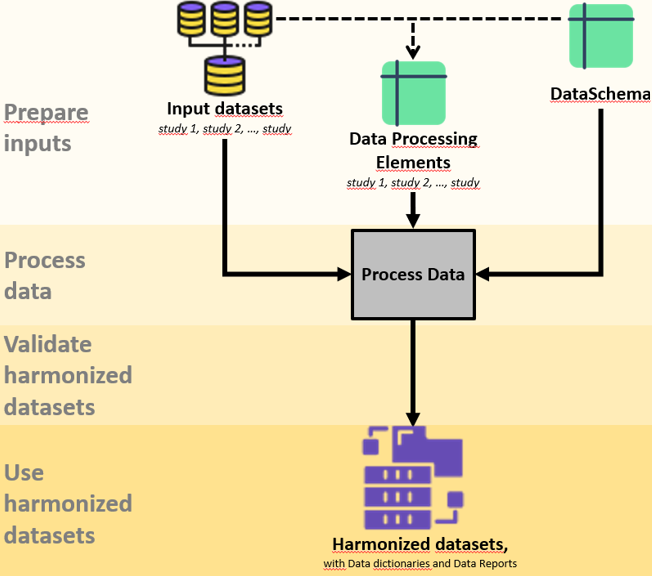
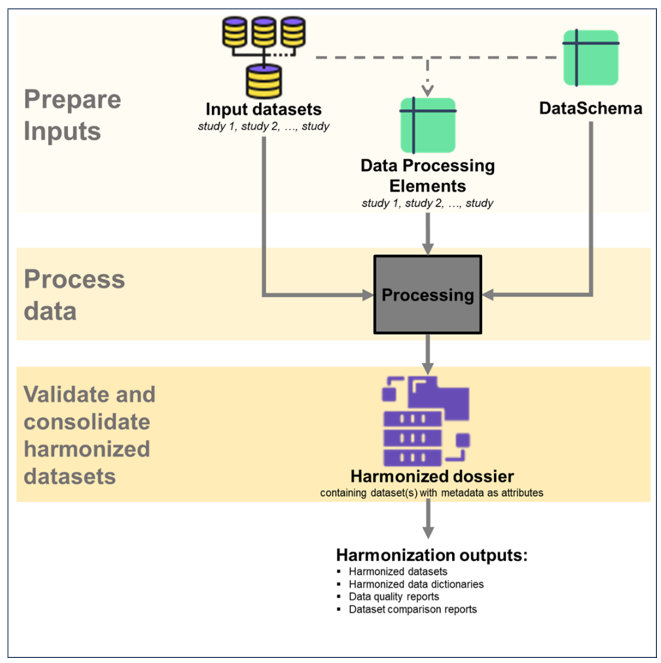
update read me page

diff --git a/README.md b/README.md
@@ -10,12 +10,12 @@
 
 # Overview
 
-Harmonizing data (evaluating and processing, where relevant, data items
-from different studies or datasets under a common format) is essential
-to <b style="color:red">epidemiology research</b> but can be
-methodologically and technically challenging. Rmonize was developed by
-<a href="https://www.maelstrom-research.org/" target="_blank"> Maelstrom
-Research</a> to address some of the key challenges faced and support a
+Harmonizing data (processing data items from different datasets under a
+common format) is essential to support research but can be
+methodologically and technically challenging. Rmonize is an R package
+developed by
+<a href="https://www.maelstrom-research.org/" target="_blank">Maelstrom
+Research</a> to address some of the key challenges faced and promote a
 streamlined, reusable, and well documented harmonization pipeline. The
 current documentation provides a starting point to use the package.
 
@@ -28,28 +28,32 @@ style="width: 50%; margin: 0 auto; display: flex; justify-content: center;">
 
 <br>
 
-To support organized and well documented harmonization, Rmonize includes
-functions to prepare and validate the required input datasets and
-metadata, generate harmonized datasets and metadata, evaluate data
-processing, and produce reports to help assess harmonized data content
-and quality.  
 Data processing in Rmonize depends on three external user-provided
-elements: the input datasets, DataSchema (list of core variables to
-generate across datasets), and Data Processing Elements. The DataSchema
-and Data Processing Elements are prepared in spreadsheets that can be
-easily modified and shared outside of R. Templates can be downloaded
-here. Rmonize uses two underlying packages,
+elements: the input datasets (datasets collected by individual studies
+or data collection centres), DataSchema (list of core variables to
+generate across input datasets), and Data Processing Elements (elements
+and algorithms needed to process variables from input datasets into
+DataSchema formats). The DataSchema and Data Processing Elements are
+prepared in Excel spreadsheets and imported into R, and they can be
+easily modified and shared outside of R. The package includes integrated
+functions to support organized data processing and generate well
+documented outputs. These functions help to prepare and validate inputs,
+process input datasets into harmonized datasets, identify and
+troubleshoot errors in processing elements, and produce documentation to
+help users evaluate harmonized data content and quality. The main
+outputs provided by Rmonize are the harmonized datasets, their
+associated data dictionaries, and reports with descriptive statistics,
+provided in summary tables or figures. Rmonize also uses two underlying
+packages,
 <a href="https://cran.r-project.org/web/packages/madshapR/index.html" 
 target="_blank">madshapR</a> and
 <a href="https://cran.r-project.org/web/packages/fabR/index.html" 
 target="_blank">fabR</a>, which include many functions to work with data
-and metadata. Functions required by Rmonize are automatically loaded and
-accessible to the user without loading madshapR and fabR, but these
-packages include additional useful functions for data processing.
+and metadata. The specific functions required by Rmonize are
+automatically loaded and accessible to the user without separately
+loading madshapR and fabR.
 
-# Get started
-
-## Install the package
+# Installation
 
 ``` r
 # To install the R package:
@@ -58,13 +62,30 @@ install.packages('Rmonize')
 library(Rmonize)
 # If you need help with the package, please use:
 Rmonize_help()
+
+# Downloadable templates are available here
+Rmonize_templates()
+
+# Demo files are available here, along with an online demonstration process 
+Rmonize_DEMO()
 ```
 
-## Annexes
+## Getting started
 
-[Glossary and templates](articles/a-Glossary-and-templates.html)
+For more information, you can go to: • Documentation on Rmonize
+functions and help pages. • Descriptions of key terms and downloadable
+templates (for DataSchema, Data Processing Elements, data dictionaries).
+• Explanation of how to prepare the Data Processing Elements. • Example
+scripts with demo files.
 
-[How to fill the Data Processing
+[Documentation on Rmonize functions and help pages](references.html)
+
+[Descriptions of key terms and downloadable
+templates](articles/a-Glossary-and-templates.html) (for DataSchema, Data
+Processing Elements, data dictionaries)
+
+[Explanation of how to prepare the Data Processing
 Elements](articles/b-The-Data-processing-elements.html)
 
-[Example with DEMO files](articles/c-Example-with-DEMO-files.html)
+[Example scripts with demo
+files](articles/c-Example-with-DEMO-files.html)
